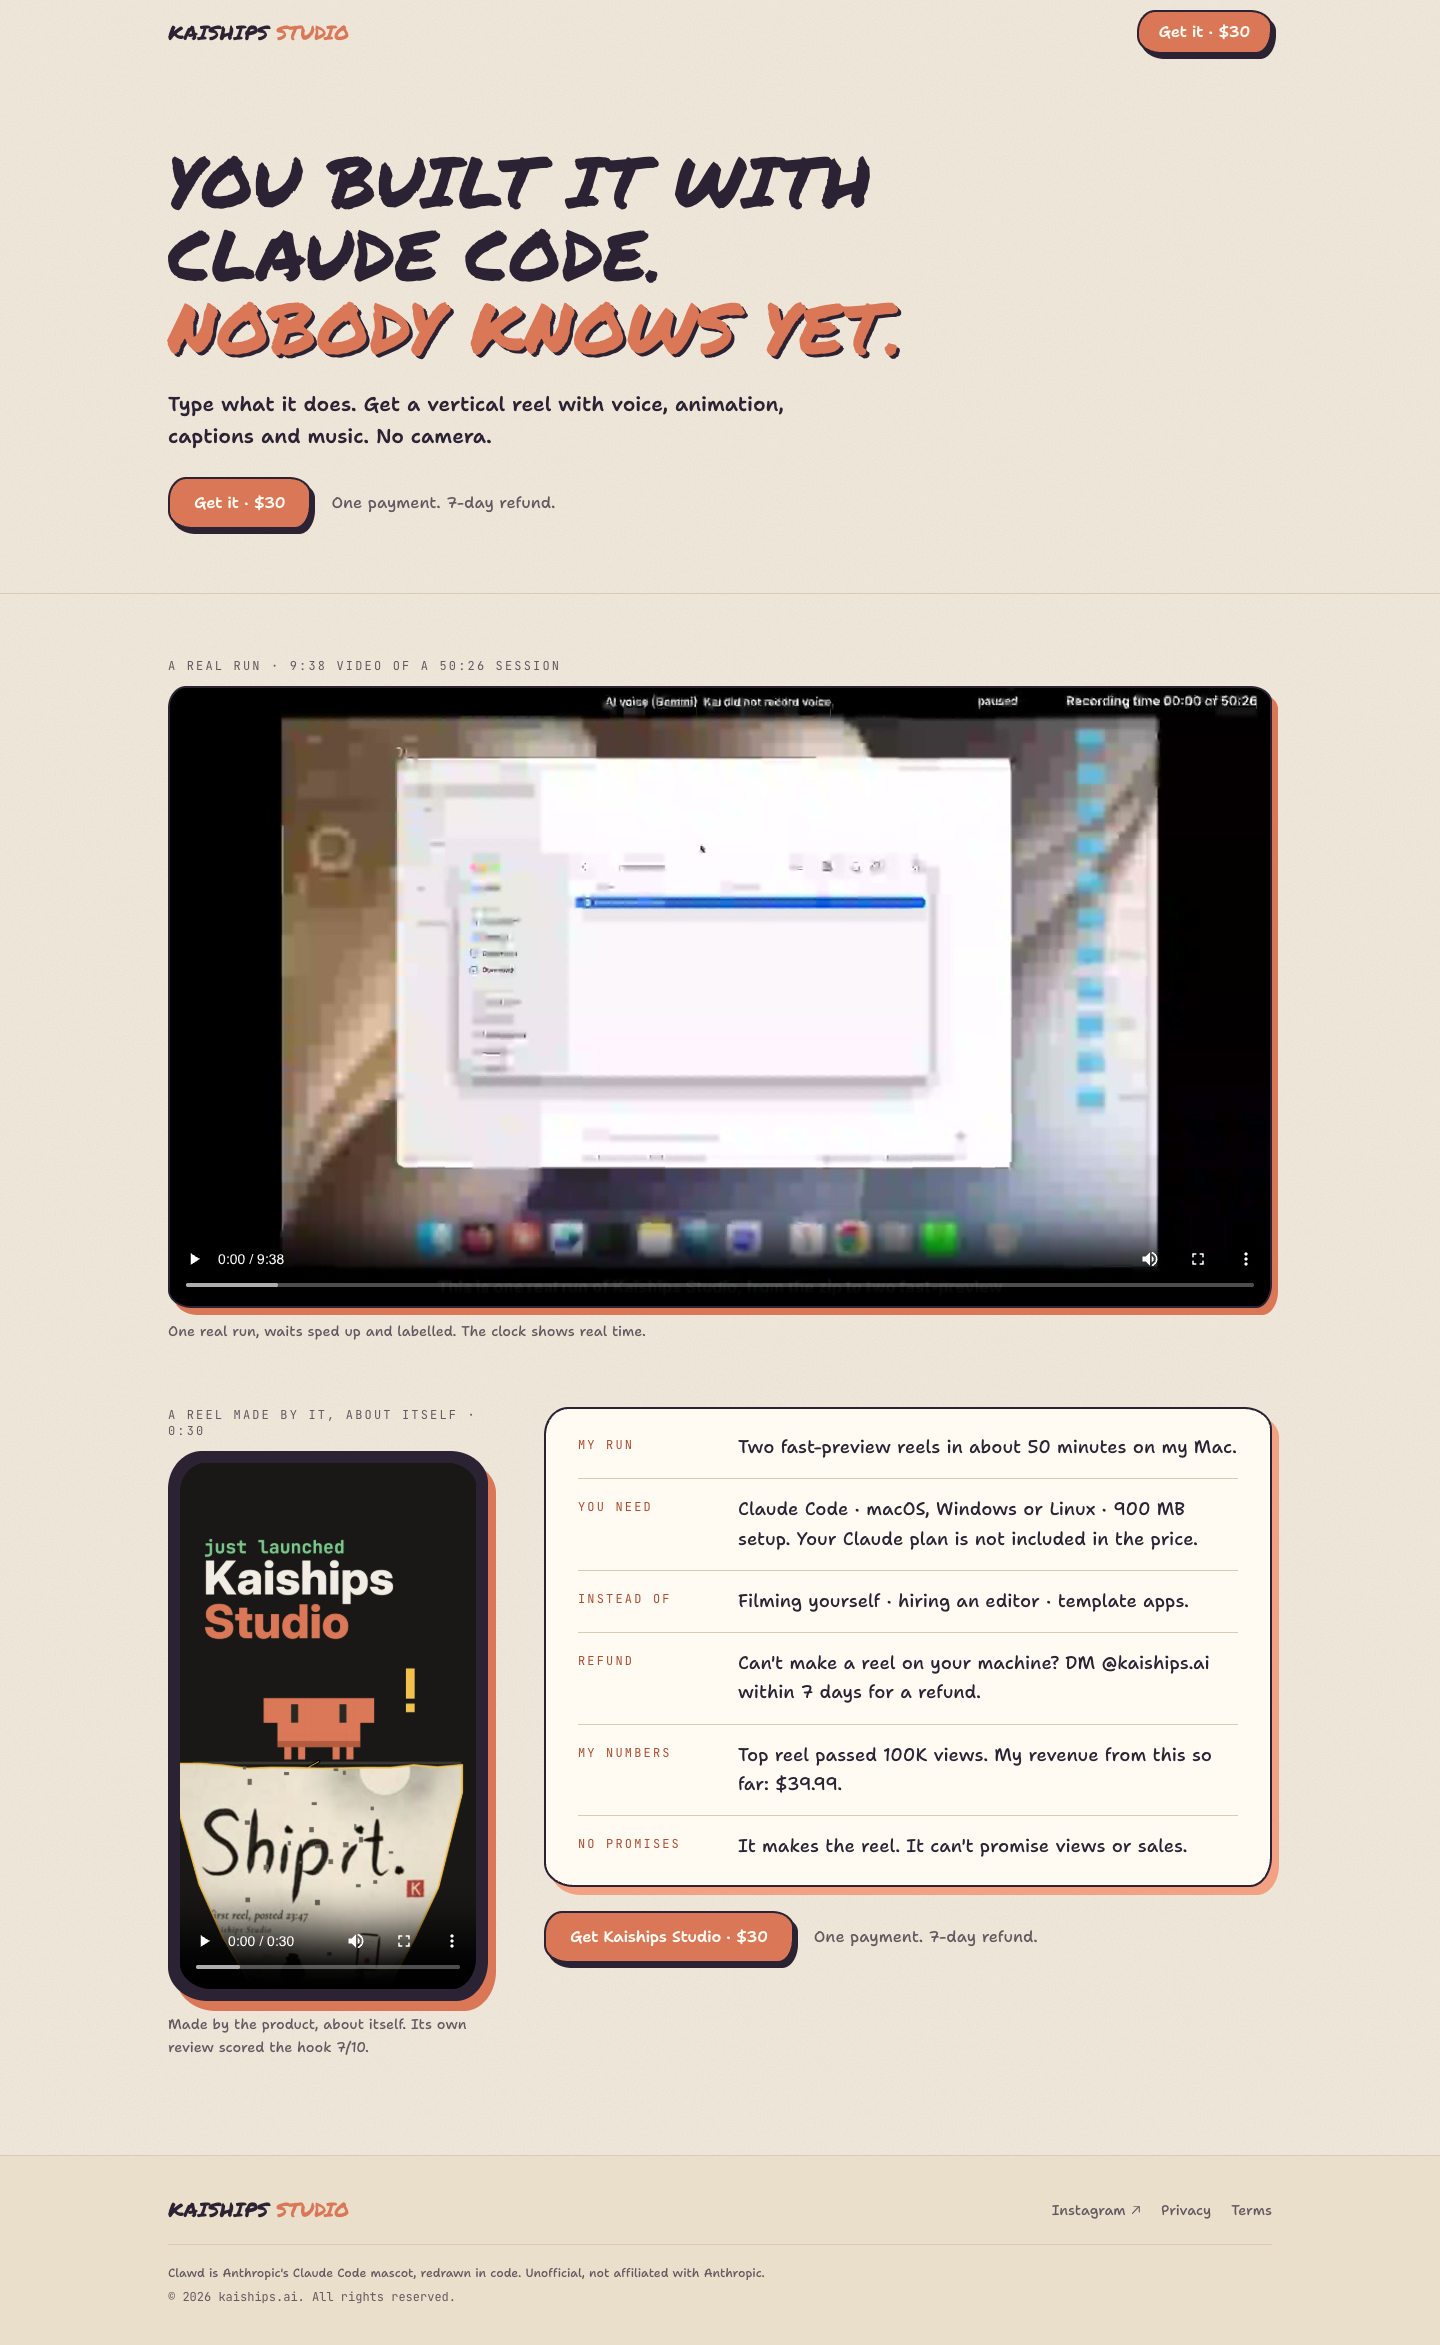
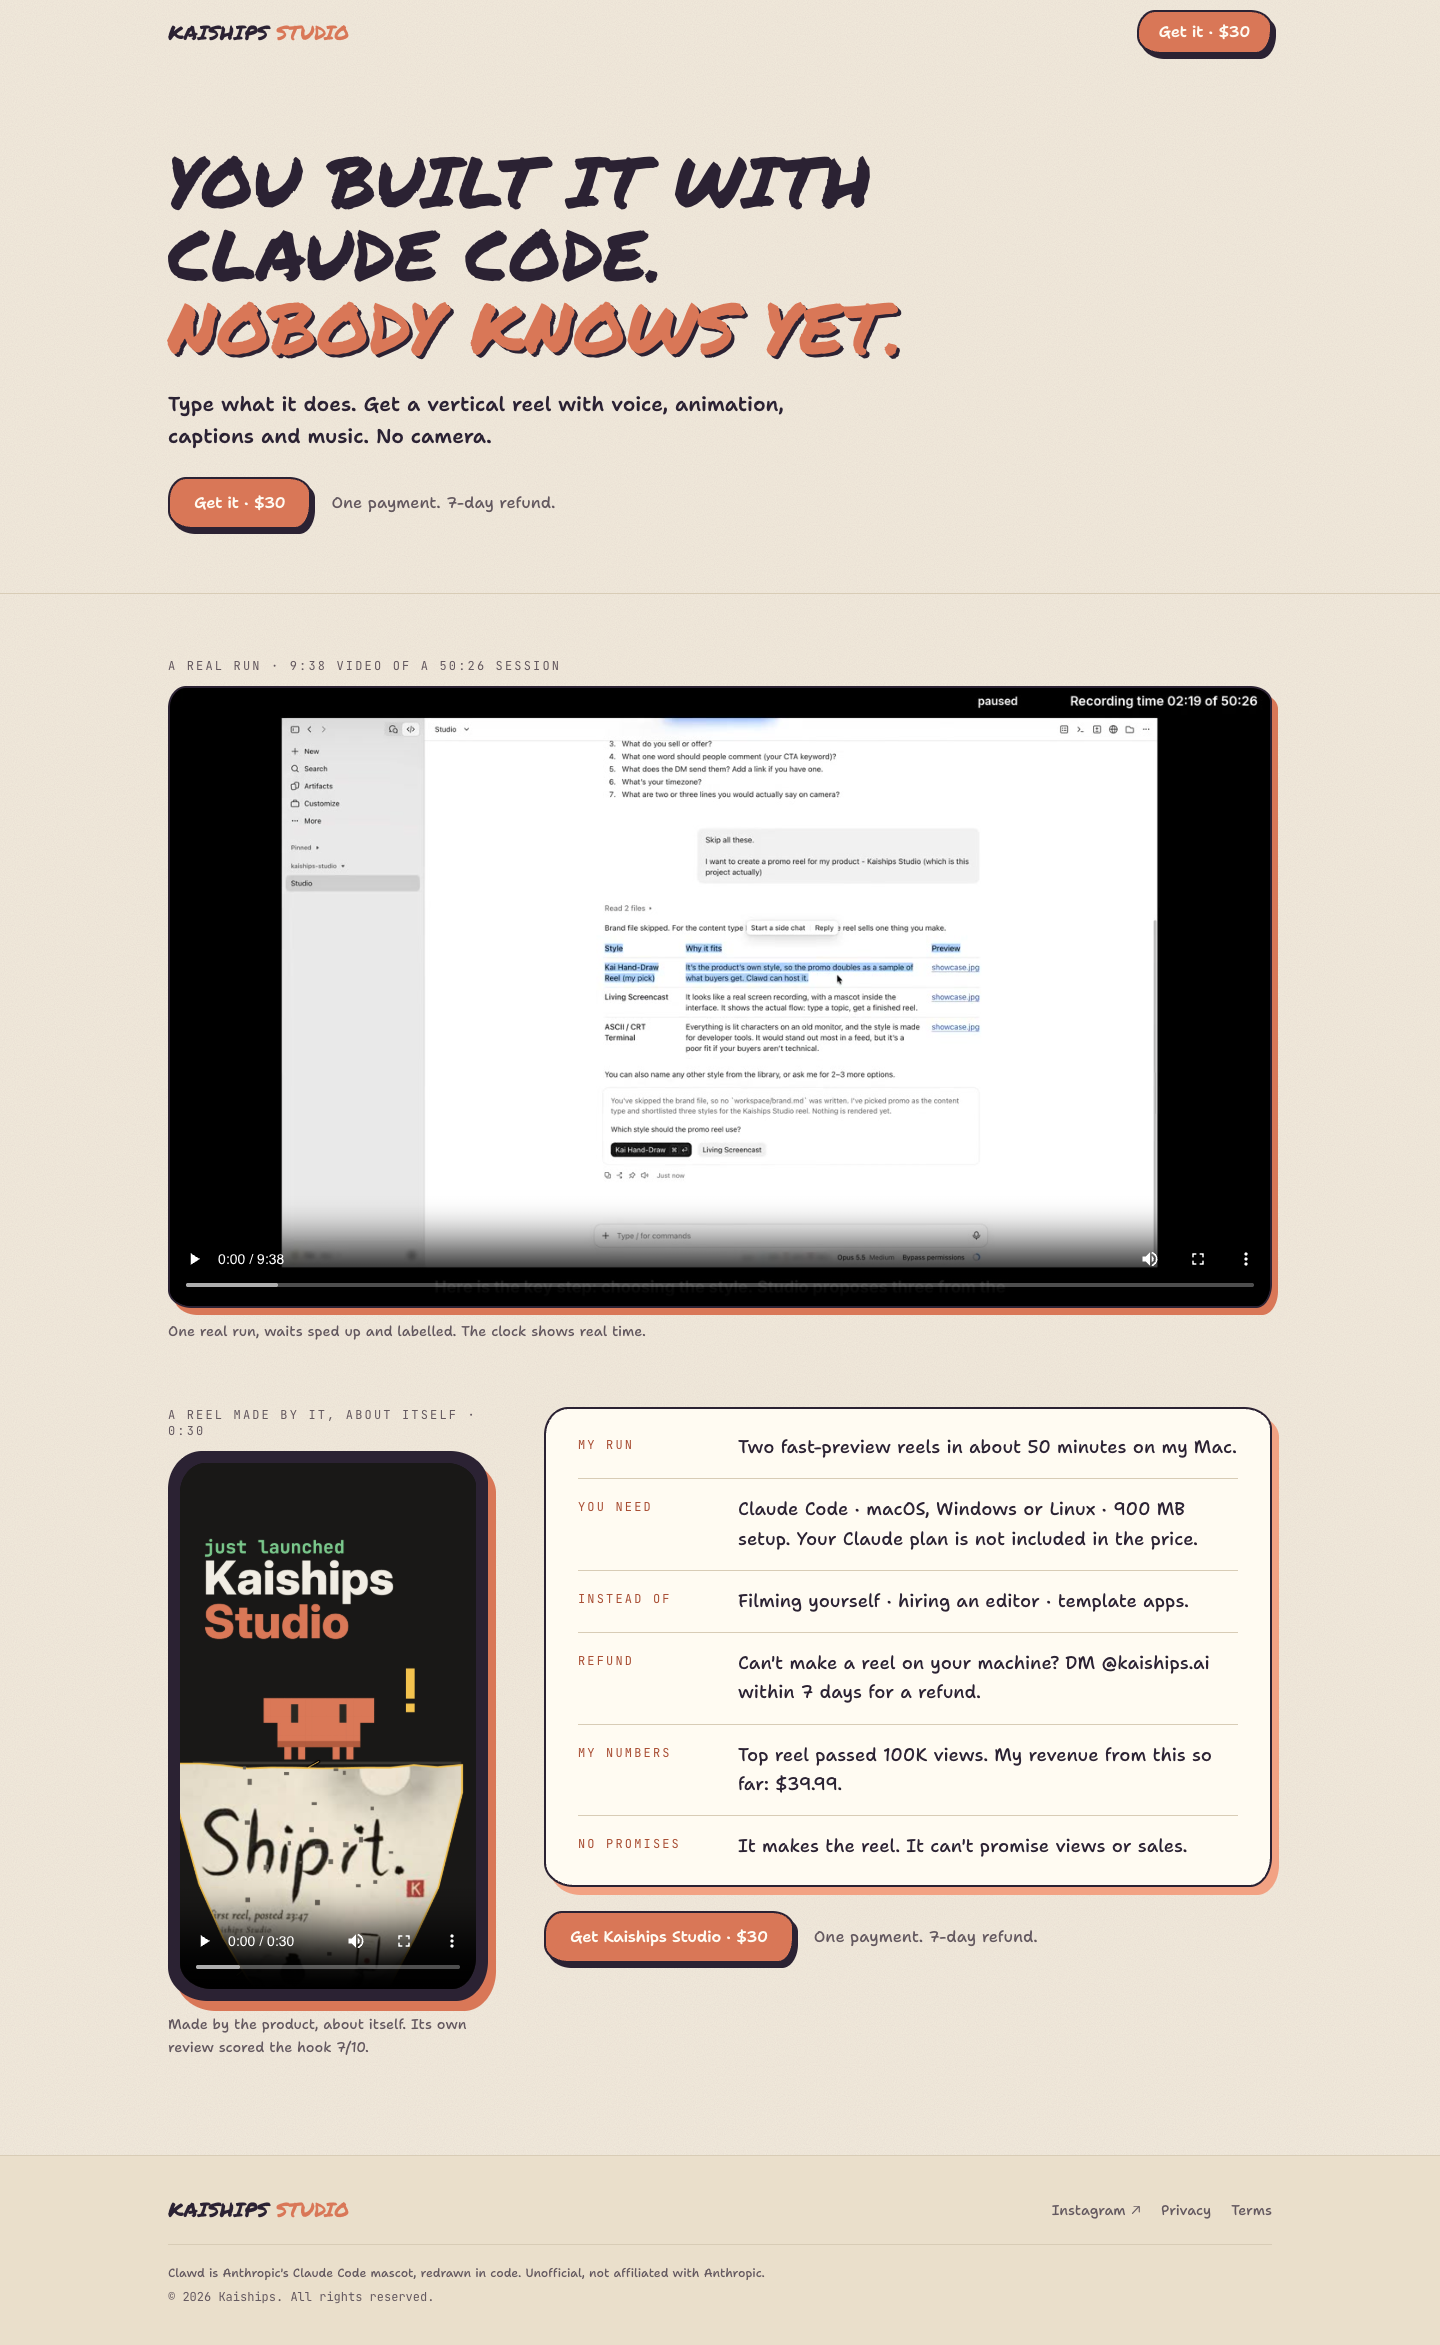
fix(home): sharp style-table poster for tutorial, footer © 2026 Kaiships
Poster is the frame at 1:44.5 of tutorial-9m38.mp4 (clock 02:19), where
the 3-style table is readable. Screenshots refreshed.

Changed region(s): [[0.1875, 0.2802, 0.8125, 0.5603]]

diff --git a/src/lib/site.config.ts b/src/lib/site.config.ts
@@ -271,7 +271,7 @@ export const siteConfig = {
       { label: "Terms", href: "/terms" },
     ],
     clawd: "Clawd is Anthropic's Claude Code mascot, redrawn in code. Unofficial, not affiliated with Anthropic.",
-    legal: "© 2026 kaiships.ai. All rights reserved.",
+    legal: "© 2026 Kaiships. All rights reserved.",
   },
 } as const;
 
